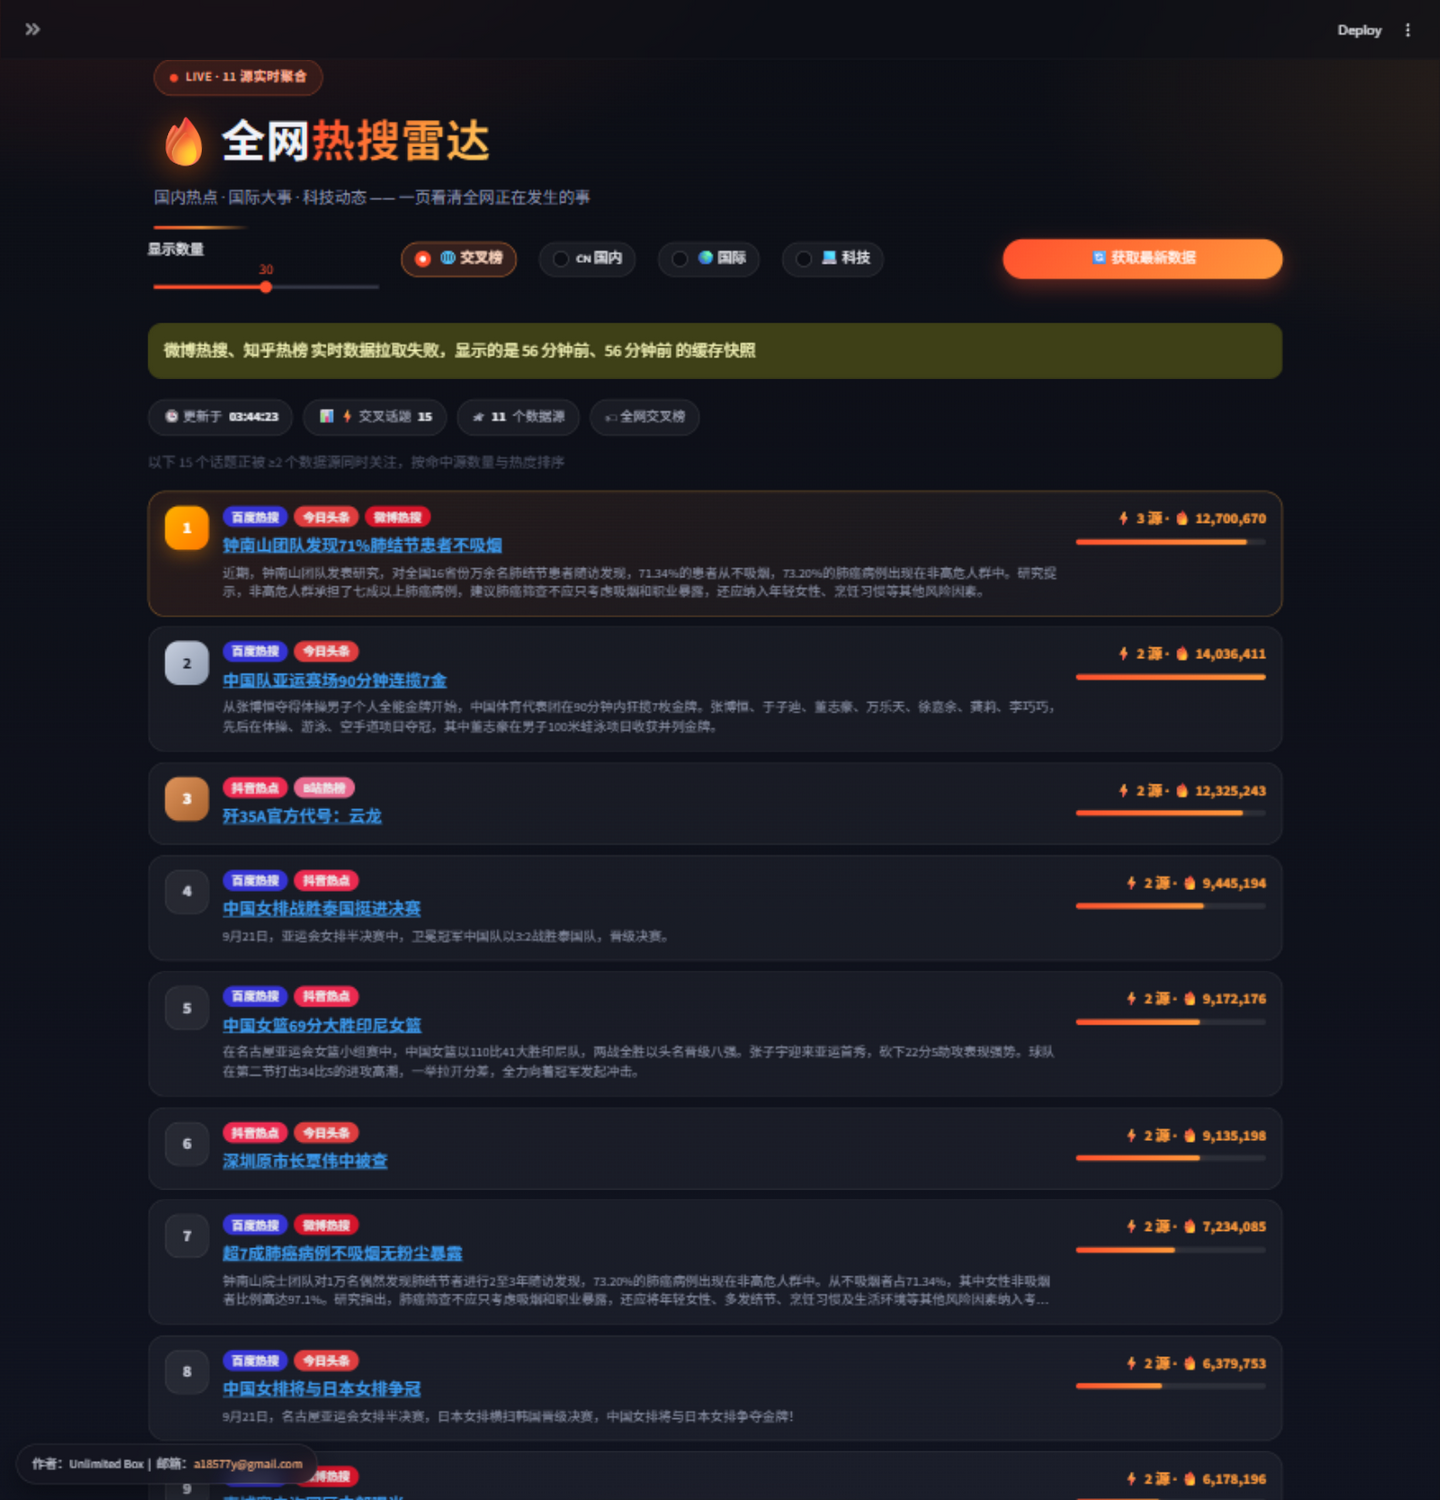
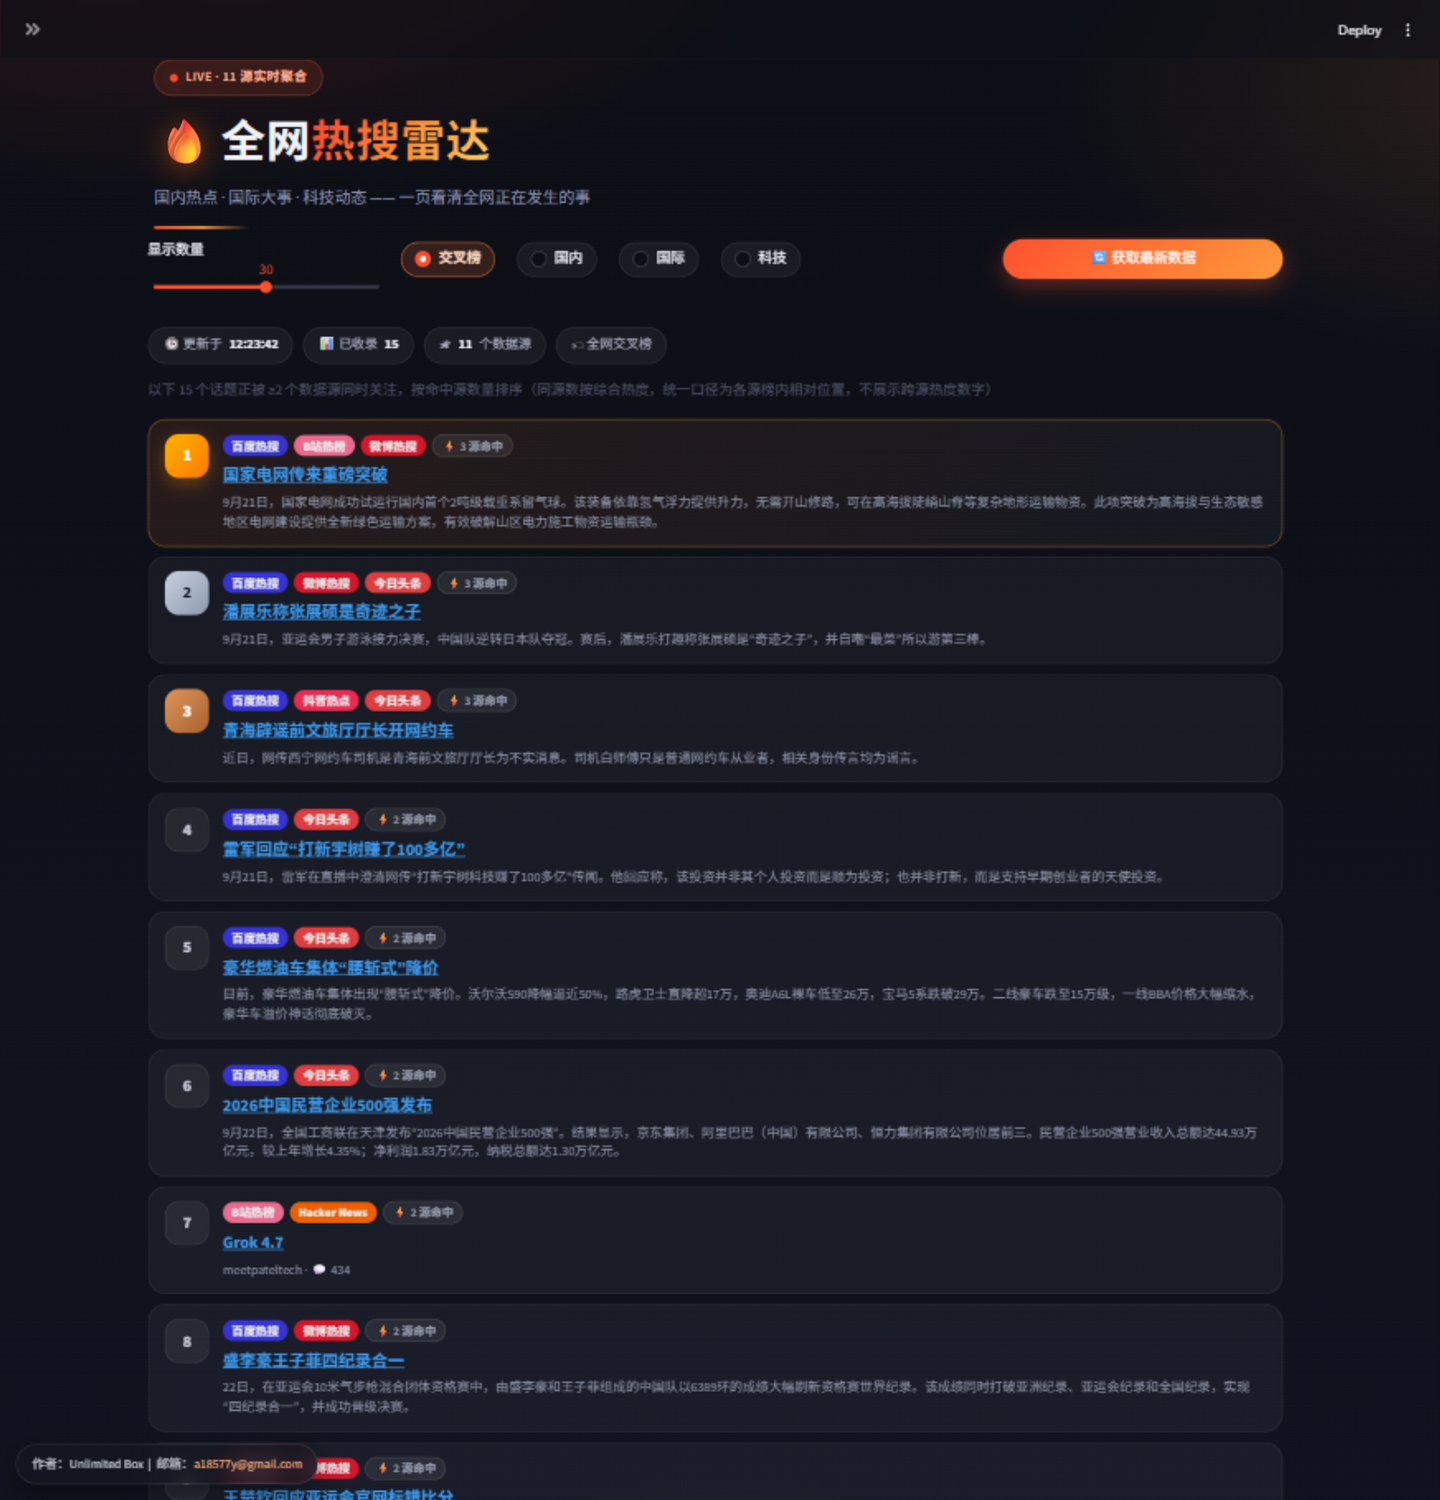
界面简化：去除热度数与热度条，只保留排名；视图标签改为纯文字
- Windows 不渲染国旗 emoji（🇨🇳 显示为 CN），四个视图标签改为纯文字
- 各板块卡片移除热度数/热度条/时间列，消除跨平台口径差异造成的排名与热度冲突；热度仍用于后台排序
- 交叉榜『N 源命中』徽章移入源徽章行
- README 同步更新特性与 FAQ，重拍界面截图

diff --git a/app.py b/app.py
@@ -27,20 +27,12 @@ st.set_page_config(page_title="全网热搜雷达", layout="wide", initial_sideb
 
 CACHE_TTL = 900   # 成功结果缓存 15 分钟
 FAIL_TTL = 120    # 失败/降级/示例结果短缓存：避免重跑时反复冲击已限流的接口，同时保证 2 分钟内自动重试
-VIEW_LABELS = ["🌐 交叉榜", "🇨🇳 国内", "🌍 国际", "💻 科技"]
-VIEW_KEYS = {"🌐 交叉榜": "cross", "🇨🇳 国内": "domestic", "🌍 国际": "world", "💻 科技": "tech"}
+VIEW_LABELS = ["交叉榜", "国内", "国际", "科技"]
+VIEW_KEYS = {"交叉榜": "cross", "国内": "domestic", "国际": "world", "科技": "tech"}
 KEY_LABELS = {v: k for k, v in VIEW_KEYS.items()}
 
 
 # ---------------------------------------------------------------- 基础工具
-
-def _fmt_heat(v):
-    try:
-        return f"{int(v):,}"
-    except (TypeError, ValueError):
-        s = str(v) if v is not None else ""
-        return s if s else "—"
-
 
 def _fmt_age(sec: float) -> str:
     return f"{int(sec // 60)} 分钟前" if sec < 3600 else f"{sec / 3600:.1f} 小时前"
@@ -157,40 +149,6 @@ def _rank_badge(rank: int) -> str:
     return f'<div class="{cls}">{rank}</div>'
 
 
-def _heat_html(heat, pct: Optional[int]) -> str:
-    num = f'<span class="heat-num">🔥 {_fmt_heat(heat)}</span>'
-    if pct is None:
-        return f'<div class="hot-heat">{num}</div>'
-    bar = f'<div class="heat-bar"><div class="heat-fill" style="width:{pct}%"></div></div>'
-    return f'<div class="hot-heat">{num}{bar}</div>'
-
-
-def _time_html(ts: float) -> str:
-    """新闻源没有平台热度，热度列展示发布时间 + 新鲜度条（24h 内线性衰减）。"""
-    age_h = max(0.0, (time.time() - ts) / 3600)
-    if age_h < 0.05:
-        label = "刚刚"
-    elif age_h < 1:
-        label = f"{int(age_h * 60)} 分钟前"
-    elif age_h < 24:
-        label = f"{age_h:.0f} 小时前"
-    else:
-        label = f"{age_h / 24:.0f} 天前"
-    pct = int(max(4, min(100, 100 * (1 - min(age_h, 24) / 24))))
-    num = f'<span class="heat-num">🕒 {label}</span>'
-    bar = f'<div class="heat-bar"><div class="heat-fill" style="width:{pct}%"></div></div>'
-    return f'<div class="hot-heat">{num}{bar}</div>'
-
-
-def _item_heat_html(item: dict, ref: float) -> str:
-    heat = item.get("heat")
-    if heat and ref:
-        return _heat_html(heat, int(max(4, min(100, round(heat / ref * 100)))))
-    if item.get("time"):
-        return _time_html(item["time"])
-    return _heat_html(None, None)
-
-
 def _tag_pills(item: dict) -> str:
     fs = item.get("_first_seen")
     if fs is None:
@@ -261,11 +219,7 @@ def render_category(view_key: str, sub: str, topn: int, force: bool):
     _warn_states(results, keys)
 
     if sub == "全部":  # 多源按名次轮播交错，形成「混合热流」
-        ok_keys = [k for k in keys if results.get(k, {}).get("ok")]
-        lists = [results[k]["items"] for k in ok_keys]
-        # 各平台热度口径不同，混合流里热度条按各自榜单内的相对位置归一
-        src_max = {k: max((it.get("heat") or 0 for it in lst), default=0)
-                   for k, lst in zip(ok_keys, lists)}
+        lists = [results[k]["items"] for k in keys if results.get(k, {}).get("ok")]
         interleaved = []
         for r in range(max((len(l) for l in lists), default=0)):
             for lst in lists:
@@ -283,15 +237,13 @@ def render_category(view_key: str, sub: str, topn: int, force: bool):
         st.info("暂无数据，请点击「获取最新数据」或稍后再试")
         return
 
-    global_max = max((it.get("heat") or 0 for it in shown), default=0) or 1
     for i, it in enumerate(shown, 1):
         src_key = keys[0] if sub != "全部" else _find_source_key(results, it)
         src_meta = sources.SOURCES.get(src_key) if src_key else None
         pill_html = _pill(src_meta["color"], src_meta["name"]) if src_meta else ""
         pill_html = f'<div class="pill-row">{pill_html}</div>' if pill_html else ""
         word_html, desc_html = _word_desc_html(it)
-        ref = (src_max.get(src_key) or 0) if sub == "全部" else global_max
-        _card_shell(i, pill_html, word_html, desc_html, _tag_pills(it), _item_heat_html(it, ref))
+        _card_shell(i, pill_html, word_html, desc_html, _tag_pills(it), "")
 
 
 def _find_source_key(results: dict, item: dict) -> Optional[str]:
@@ -329,7 +281,7 @@ def render_cross(topn: int, force: bool):
     clusters = st.session_state.get("cross_clusters") or []
 
     ok_sources = len([k for k, r in results.items() if r.get("ok") and r.get("items")])
-    render_meta_chips(results, keys, "全网交叉榜", len(clusters), ok_sources)
+    render_meta_chips(results, keys, "全网交叉榜", len(clusters), ok_sources, item_label="⚡ 交叉话题")
 
     if not clusters:
         down = [sources.SOURCES[k]["name"] for k in keys
@@ -344,10 +296,8 @@ def render_cross(topn: int, force: bool):
         return
 
     st.caption(f"以下 {min(len(clusters), topn)} 个话题正被 ≥{aggregate.MIN_CLUSTER} 个数据源同时关注，"
-               f"按命中源数量与综合热度排序。综合热度为统一口径（各源榜内相对位置 × 源数，满分 100），"
-               f"各平台的原始热度单位不同，不可直接跨源比较")
+               f"按命中源数量排序（同源数按综合热度，统一口径为各源榜内相对位置，不展示跨源热度数字）")
     shown = clusters[:topn]
-    max_comp = max(c.get("composite", 0) for c in shown) or 1
     name_to_key = {v["name"]: k for k, v in sources.SOURCES.items()}
     for i, c in enumerate(shown, 1):
         seen, pills = set(), []
@@ -358,14 +308,10 @@ def render_cross(topn: int, force: bool):
             src_key = name_to_key.get(m_name)
             if src_key:
                 pills.append(_pill(sources.SOURCES[src_key]["color"], m_name))
+        pills.append(f'<span class="tag-badge">⚡ {len(c["sources"])} 源命中</span>')
         pill_html = f'<div class="pill-row">{"".join(pills)}</div>'
         word_html, desc_html = _word_desc_html(c)
-        comp = int(round(c.get("composite", 0) / max_comp * 100))
-        comp = max(4, comp)
-        num = f'<span class="heat-num">⚡ {len(c["sources"])} 源 · 🔥 {comp}</span>'
-        heat_html = (f'<div class="hot-heat">{num}'
-                     f'<div class="heat-bar"><div class="heat-fill" style="width:{comp}%"></div></div></div>')
-        _card_shell(i, pill_html, word_html, desc_html, "", heat_html)
+        _card_shell(i, pill_html, word_html, desc_html, "", "")
 
 
 # ---------------------------------------------------------------- 侧边栏

diff --git a/README.md b/README.md
@@ -46,13 +46,13 @@ One board shows you one platform's view — and Baidu's skews entertainment. Thi
 
 ## ✨ Features
 
-- 🌐 **Cross-source board (flagship)**: title-similarity clustering merges entries about the same event from ≥2 sources, ranked by hit count and heat — tell "platform noise" from "global news" at a glance
+- 🌐 **Cross-source board (flagship)**: title-similarity clustering merges entries about the same event from ≥2 sources, ranked by hit count (ties by a unified composite heat) — tell "platform noise" from "global news" at a glance
 - 🗂 **Three category views**: 🇨🇳 Domestic / 🌍 World / 💻 Tech — single source, or a "mixed stream" that interleaves all sources by rank
 - 🆕 **New / time-on-board badges**: SQLite snapshots mark first-seen topics and how long an entry has been trending
 - 🛡 **Three-tier fallback, never blank**: live data → 15-min cached snapshot (with age notice) → sample data
 - 🩺 **Source diagnostics panel**: probes all 11 sources in parallel, reporting availability, item count and latency
 - ⚖ **Rate-limit friendly**: per-source caching, short-lived failure caching, staggered requests and 429 backoff
-- 🎨 **Dark "ember" theme**: glassy cards, fire-gradient accents, TOP-3 medals, heat bars, LIVE pulse, brand-colored source badges
+- 🎨 **Dark "ember" theme**: glassy cards, fire-gradient accents, TOP-3 medals, LIVE pulse, brand-colored source badges
 
 ## 📡 Data Sources
 
@@ -117,8 +117,8 @@ Usually public-instance rate limiting or an upstream hiccup — it auto-retries 
 **Is history (new badges) kept forever?**
 Streamlit Cloud wipes the filesystem on redeploy, so history only accumulates within one instance's lifetime. Self-host with a persistent volume to keep it long-term (7 days retained by default).
 
-**Why can't heat numbers be compared across sources?**
-Every platform scores heat differently; bars are relative within the current view. The cross-source board ranks by hit count first. World-news sources (Google News / NYT) have no platform heat metric — the heat column shows **publish time** instead (freshness bar decays over 24h).
+**Why don't cards show heat numbers or bars?**
+Heat units differ per platform, and comparing them across sources is misleading (it also caused "rank #1 shows less heat than #2" confusion). Boards therefore show only rank, source hits and time-on-board. Heat still drives ordering behind the scenes: the cross-source board ranks by hit count (ties by composite heat), single-source views follow each platform's own order.
 
 ## 👤 Author
 

diff --git a/README.zh-CN.md b/README.zh-CN.md
@@ -44,13 +44,13 @@
 
 ## ✨ 功能特性
 
-- 🌐 **交叉榜（核心亮点）**：标题相似度聚类，把 ≥2 个数据源同时关注的同一事件聚成一簇，按命中源数量与热度排序——一眼分辨「平台小事」和「全网大事」
+- 🌐 **交叉榜（核心亮点）**：标题相似度聚类，把 ≥2 个数据源同时关注的同一事件聚成一簇，按命中源数量排序（同源数按综合热度）——一眼分辨「平台小事」和「全网大事」
 - 🗂 **三大分类视图**：🇨🇳 国内 / 🌍 国际 / 💻 科技，支持看单一源或全部源的「混合热流」（按名次轮播交错）
 - 🆕 **新上榜 / 在榜时长**：SQLite 记录历史快照，自动标记首次出现的话题与已上榜时长
 - 🛡 **三层降级，永不白屏**：实时数据 → 15 分钟缓存快照（明确提示数据时点）→ 示例数据
 - 🩺 **数据源诊断面板**：并行探测全部 11 个源，展示每个源的可用性、条数与耗时
 - ⚖ **限流友好**：每源独立缓存 + 失败短缓存 + 对聚合接口错峰请求与 429 退避
-- 🎨 **暗色「余烬」主题**：玻璃卡片、火焰渐变、TOP-3 奖牌徽章、热度条、LIVE 呼吸灯、源品牌色徽章
+- 🎨 **暗色「余烬」主题**：玻璃卡片、火焰渐变、TOP-3 奖牌徽章、LIVE 呼吸灯、源品牌色徽章
 
 ## 📡 数据源
 
@@ -115,8 +115,8 @@ streamlit run app.py
 **历史数据（新上榜标记）会一直保留吗？**
 Streamlit Cloud 的文件系统随应用重建而清空，历史只在本实例生命周期内累积；自部署挂载持久卷可长期保留（默认保留 7 天）。
 
-**热度数字为什么不能跨源比较？**
-各平台热度口径不同，热度条只在当前视图内做相对展示；交叉榜的排序依据首先是命中源数量。国际新闻源（Google News / 纽约时报）没有平台热度指标，热度列显示的是**发布时间**（新鲜度条 24 小时内衰减）。
+**为什么卡片不显示热度数字和热度条？**
+各平台热度口径不同，跨源直接比较会产生误导（也曾出现「第一名热度反而更低」的观感冲突），因此榜单只保留排名、命中源与在榜信息。热度数据仍在后台参与排序：交叉榜按命中源数量（同源数按综合热度），单源视图按平台原始顺序。
 
 ## 👤 作者
 
